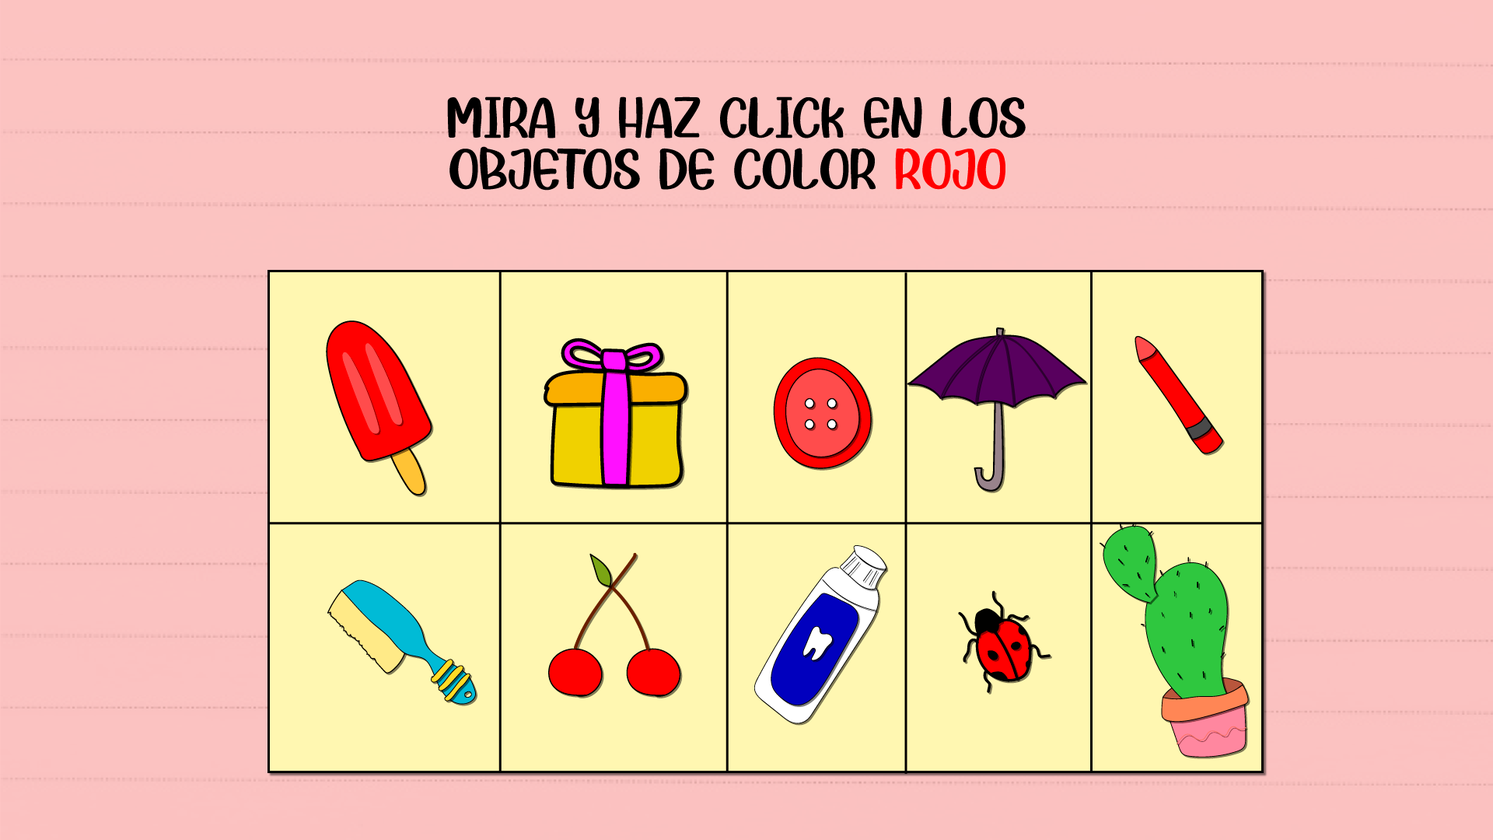
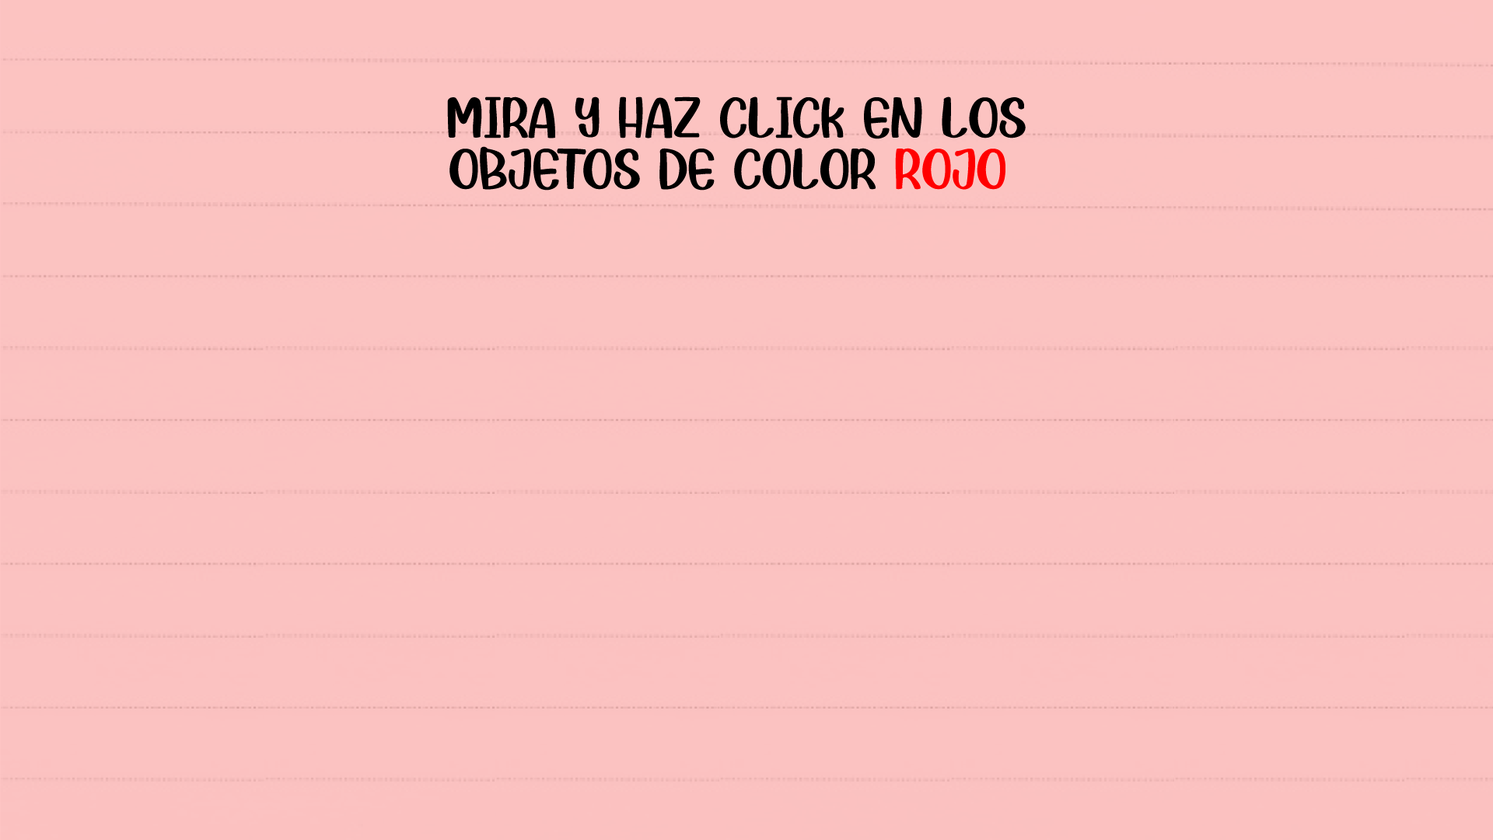
Added statatic

diff --git a/src/secciones/01-colores/Pag5.js b/src/secciones/01-colores/Pag5.js
@@ -3,67 +3,77 @@ import { BienHecho } from '../../components/BienHecho';
 
 export const Pag5 = ({height}) => {
 
-    const [isSelected, setIsSelected] = useState([false, false, false, false, false, false])
+    const [completed, setCompleted] = useState(false)
 
-    const [good, setGood] = useState('');
-
-    const handleSelect = (i) => {
-      setIsSelected((prevState) => prevState.map((item,index) => {
-          if (index === i) {
-              return true
-          }
-          return item
-      }))
-    };
-
+    const [selected, setSelected] = useState([
+        { clicked: false, value: 0 },
+        { clicked: false, value: 0 },
+        { clicked: false, value: 0 },
+        { clicked: false, value: 0 },
+        { clicked: false, value: 0 },
+        { clicked: false, value: 0 },
+        { clicked: false, value: 0 }
+      ]);
+    
+      const handleClick = (index) => {
+        setSelected((prevState) =>
+          prevState.map((sel, ind) => {
+            if (ind === index && !sel.clicked ) {
+              return {
+                clicked: true,
+                value: prevState.filter((itm) => itm.clicked).length + 1
+              };
+            }
+            return sel;
+          })
+        );
+      };
+    
     useEffect(() => {
-        if (isSelected.every(elem => elem )){
-            setGood("Bien Hecho")
-            setIsSelected([false, false, false, false, false, false, false])
+        if (selected.every(elem => elem.clicked )){
+            setCompleted(true)
         }
-    }, [isSelected])
+    }, [selected])
 
 
 
     return (
         <div className="container">
-            { good !== "" ? ( <BienHecho onClick={()=>setGood("")}/> ) :
-                <div className="row align-items-center" style={{height: height }} >
+            { completed ? ( <BienHecho setCompleted={setCompleted}/> ) :
+                <div className="row">
                     <img className="position-absolute p-0" src="static/Diapositivas PNG/5-a.png" alt="pag-5"/> 
-                    <div className="col-6">
-                    </div>
-                    <div className="col-6" style={{zIndex:2}} >
-                            <div className=" bg-amarillo overflow-hidden m-1 p-3 p-xl-5" style={{ borderRadius:"40%", }}>
-                                <img className={`${isSelected[0] ? "selected" : "img-hover"}`} alt="img-1" onClick={()=>{handleSelect(0)}} style={{height:"3vw"}} src="static/Elementosporseparado/2Coloresprimarios/Rojo/Corazon-rojo.png" />
-                                <img className="img-hover" alt="img-1" style={{height:"3vw"}} src="static/Elementosporseparado/2Coloresprimarios/Rojo/Corazon-azul.png" />
-                                <img className={`${isSelected[1] ? "selected" : "img-hover"}`} alt="img-1" onClick={()=>{handleSelect(1)}} style={{height:"3vw"}} src="static/Elementosporseparado/2Coloresprimarios/Rojo/Corazon-rojo.png" />
-                                <img className="img-hover" alt="img-1" style={{height:"3vw"}} src="static/Elementosporseparado/2Coloresprimarios/Rojo/Corazon-naranja.png" />
-                                <img className={`${isSelected[2] ? "selected" : "img-hover"}`} alt="img-1" onClick={()=>{handleSelect(2)}} style={{height:"3vw"}} src="static/Elementosporseparado/2Coloresprimarios/Rojo/Corazon-rojo.png" />
-                                <img className="img-hover" alt="img-1" style={{height:"3vw"}} src="static/Elementosporseparado/2Coloresprimarios/Rojo/Corazon-verde.png" />
-                                <img className="img-hover" alt="img-1" style={{height:"3vw"}} src="static/Elementosporseparado/2Coloresprimarios/Rojo/Corazon-verde-agua.png" />
-                                <img className="img-hover" alt="img-1" style={{height:"3vw"}} src="static/Elementosporseparado/2Coloresprimarios/Rojo/Corazon-amarillo.png" />
-                                <img className="img-hover" alt="img-1" style={{height:"3vw"}} src="static/Elementosporseparado/2Coloresprimarios/Rojo/Corazon-azul.png" />
-                                <img className="img-hover" alt="img-1" style={{height:"3vw"}} src="static/Elementosporseparado/2Coloresprimarios/Rojo/Corazon-celeste.png" />
-                                <img className="img-hover" alt="img-1" style={{height:"3vw"}} src="static/Elementosporseparado/2Coloresprimarios/Rojo/Corazon-naranja.png" />
-                                <img className="img-hover" alt="img-1" style={{height:"3vw"}} src="static/Elementosporseparado/2Coloresprimarios/Rojo/Corazon-verde.png" />
-                                <img className={`${isSelected[3] ? "selected" : "img-hover"}`} alt="img-1" onClick={()=>{handleSelect(3)}} style={{height:"3vw"}} src="static/Elementosporseparado/2Coloresprimarios/Rojo/Corazon-rojo.png" />
-                                <img className="img-hover" alt="img-1" style={{height:"3vw"}} src="static/Elementosporseparado/2Coloresprimarios/Rojo/Corazon-verde-agua.png" />
-                                <img className="img-hover" alt="img-1" style={{height:"3vw"}} src="static/Elementosporseparado/2Coloresprimarios/Rojo/Corazon-amarillo.png" />
-                                <img className="img-hover" alt="img-1" style={{height:"3vw"}} src="static/Elementosporseparado/2Coloresprimarios/Rojo/Corazon-azul.png" />
-                                <img className="img-hover" alt="img-1" style={{height:"3vw"}} src="static/Elementosporseparado/2Coloresprimarios/Rojo/Corazon-celeste.png" />
-                                <img className="img-hover" alt="img-1" style={{height:"3vw"}} src="static/Elementosporseparado/2Coloresprimarios/Rojo/Corazon-naranja.png" />
-                                <img className={`${isSelected[4] ? "selected" : "img-hover"}`} alt="img-1" onClick={()=>{handleSelect(4)}} style={{height:"3vw"}} src="static/Elementosporseparado/2Coloresprimarios/Rojo/Corazon-rojo.png" />
-                                <img className="img-hover" alt="img-1" style={{height:"3vw"}} src="static/Elementosporseparado/2Coloresprimarios/Rojo/Corazon-verde.png" />
-                                <img className={`${isSelected[5] ? "selected" : "img-hover"}`} alt="img-1" onClick={()=>{handleSelect(5)}} style={{height:"3vw"}} src="static/Elementosporseparado/2Coloresprimarios/Rojo/Corazon-rojo.png" />
-                                <img className="img-hover" alt="img-1" style={{height:"3vw"}} src="static/Elementosporseparado/2Coloresprimarios/Rojo/Corazon-amarillo.png" />
-                                <img className="img-hover" alt="img-1" style={{height:"3vw"}} src="static/Elementosporseparado/2Coloresprimarios/Rojo/Corazon-azul.png" />
-                                <img className={`${isSelected[6] ? "selected" : "img-hover"}`} alt="img-1" onClick={()=>{handleSelect(5)}} style={{height:"3vw"}} src="static/Elementosporseparado/2Coloresprimarios/Rojo/Corazon-rojo.png" />
-                                <img className="img-hover" alt="img-1" style={{height:"3vw"}} src="static/Elementosporseparado/2Coloresprimarios/Rojo/Corazon-amarillo.png" />
-                                <img className="img-hover" alt="img-1" style={{height:"3vw"}} src="static/Elementosporseparado/2Coloresprimarios/Rojo/Corazon-azul.png" />
-                            </div>
+                    <div className="bg-amarillo overflow-hidden m-3 m-sm-5 p-3 p-xl-5 position-absolute bottom-0 end-0" style={{ borderRadius:"45%", width:"50%", zIndex:2}}>
+                        
+                        <img className={"img-hover"} alt="img-1" onClick={()=>{handleClick(0)}} style={{height:"3vw"}} src={`static/Elementosporseparado/2Coloresprimarios/${selected[0].clicked ? selected[0].value : "/Rojo/Corazon-rojo" }.png`} />
+                         
+                        <img className="img-hover" alt="img-1" style={{height:"3vw"}} src="static/Elementosporseparado/2Coloresprimarios/Rojo/Corazon-azul.png" />
+                        <img className={"img-hover"} alt="img-1" onClick={()=>{handleClick(1)}} style={{height:"3vw"}} src={`static/Elementosporseparado/2Coloresprimarios/${selected[1].clicked ? selected[1].value : "/Rojo/Corazon-rojo" }.png`} />
+                        <img className="img-hover" alt="img-1" style={{height:"3vw"}} src="static/Elementosporseparado/2Coloresprimarios/Rojo/Corazon-naranja.png" />
+                        <img className={"img-hover"} alt="img-1" onClick={()=>{handleClick(2)}} style={{height:"3vw"}} src={`static/Elementosporseparado/2Coloresprimarios/${selected[2].clicked ? selected[2].value : "/Rojo/Corazon-rojo" }.png`} />
+                        <img className="img-hover" alt="img-1" style={{height:"3vw"}} src="static/Elementosporseparado/2Coloresprimarios/Rojo/Corazon-verde.png" />
+                        <img className="img-hover" alt="img-1" style={{height:"3vw"}} src="static/Elementosporseparado/2Coloresprimarios/Rojo/Corazon-verde-agua.png" />
+                        <img className="img-hover" alt="img-1" style={{height:"3vw"}} src="static/Elementosporseparado/2Coloresprimarios/Rojo/Corazon-amarillo.png" />
+                        <img className="img-hover" alt="img-1" style={{height:"3vw"}} src="static/Elementosporseparado/2Coloresprimarios/Rojo/Corazon-azul.png" />
+                        <img className="img-hover" alt="img-1" style={{height:"3vw"}} src="static/Elementosporseparado/2Coloresprimarios/Rojo/Corazon-celeste.png" />
+                        <img className="img-hover" alt="img-1" style={{height:"3vw"}} src="static/Elementosporseparado/2Coloresprimarios/Rojo/Corazon-naranja.png" />
+                        <img className="img-hover" alt="img-1" style={{height:"3vw"}} src="static/Elementosporseparado/2Coloresprimarios/Rojo/Corazon-verde.png" />
+                        <img className={"img-hover"} alt="img-1" onClick={()=>{handleClick(3)}} style={{height:"3vw"}} src={`static/Elementosporseparado/2Coloresprimarios/${selected[3].clicked ? selected[3].value : "/Rojo/Corazon-rojo" }.png`} />
+                        <img className="img-hover" alt="img-1" style={{height:"3vw"}} src="static/Elementosporseparado/2Coloresprimarios/Rojo/Corazon-verde-agua.png" />
+                        <img className="img-hover" alt="img-1" style={{height:"3vw"}} src="static/Elementosporseparado/2Coloresprimarios/Rojo/Corazon-amarillo.png" />
+                        <img className="img-hover" alt="img-1" style={{height:"3vw"}} src="static/Elementosporseparado/2Coloresprimarios/Rojo/Corazon-azul.png" />
+                        <img className="img-hover" alt="img-1" style={{height:"3vw"}} src="static/Elementosporseparado/2Coloresprimarios/Rojo/Corazon-celeste.png" />
+                        <img className="img-hover" alt="img-1" style={{height:"3vw"}} src="static/Elementosporseparado/2Coloresprimarios/Rojo/Corazon-naranja.png" />
+                        <img className={"img-hover"} alt="img-1" onClick={()=>{handleClick(4)}} style={{height:"3vw"}} src={`static/Elementosporseparado/2Coloresprimarios/${selected[4].clicked ? selected[4].value : "/Rojo/Corazon-rojo" }.png`} />
+                        <img className="img-hover" alt="img-1" style={{height:"3vw"}} src="static/Elementosporseparado/2Coloresprimarios/Rojo/Corazon-verde.png" />
+                        <img className={"img-hover"} alt="img-1" onClick={()=>{handleClick(5)}} style={{height:"3vw"}} src={`static/Elementosporseparado/2Coloresprimarios/${selected[5].clicked ? selected[5].value : "/Rojo/Corazon-rojo" }.png`} />
+                        <img className="img-hover" alt="img-1" style={{height:"3vw"}} src="static/Elementosporseparado/2Coloresprimarios/Rojo/Corazon-amarillo.png" />
+                        <img className="img-hover" alt="img-1" style={{height:"3vw"}} src="static/Elementosporseparado/2Coloresprimarios/Rojo/Corazon-azul.png" />
+                        <img className={"img-hover"} alt="img-1" onClick={()=>{handleClick(6)}} style={{height:"3vw"}} src={`static/Elementosporseparado/2Coloresprimarios/${selected[6].clicked ? selected[6].value : "/Rojo/Corazon-rojo" }.png`} />
+                        <img className="img-hover" alt="img-1" style={{height:"3vw"}} src="static/Elementosporseparado/2Coloresprimarios/Rojo/Corazon-amarillo.png" />
+                        <img className="img-hover" alt="img-1" style={{height:"3vw"}} src="static/Elementosporseparado/2Coloresprimarios/Rojo/Corazon-azul.png" />
                     </div>
                 </div>
-            }
+}
         </div>
         
     )

diff --git a/src/secciones/00-home/Libro.js b/src/secciones/00-home/Libro.js
@@ -1,7 +1,7 @@
 import React, {useRef} from 'react';
 import HTMLFlipBook from 'react-pageflip';
 import useWindowDimensions, {responsiveWidth, responsiveHeight} from '../../hooks/useWindowDimensions';
-import { Pag3 } from '../01-colores/Pag3';
+import { Pag4 } from '../01-colores/Pag4';
 import { Pag5 } from '../01-colores/Pag5';
 
 
@@ -17,16 +17,74 @@ export const Libro = () => {
             <div>
                 <button className="carousel-control-prev d-none d-sm-block d-lg-none" type="button" onClick={() => book.current.pageFlip().flipPrev()}><span className="carousel-control-prev-icon" aria-hidden="true"></span></button>
                 <HTMLFlipBook width={responsiveWidth(width)} height={responsiveHeight(width)}  useMouseEvents={false} ref={book}  autoSize={false} className="libro">
+                    
                     <div className="demoPage"><video  src="static/Diapositivas PNG/0 - Portada.mp4" width={responsiveWidth(width)} height={responsiveHeight(width)} loop={true} autoPlay={true} /></div>
                     <img className="demoPage" src="static/Diapositivas PNG/1.png" alt="page-1"/>
                     <img className="demoPage" src="static/Diapositivas PNG/2.png" alt="page-2"/>
                     <img className="demoPage" src="static/Diapositivas PNG/3.png" alt="page-3"/>
-                    <div className="demoPage  bg-rosa "><Pag3 /></div>
+                    <div className="demoPage"><Pag4 /></div>
                     <div className="demoPage"><Pag5 height={responsiveHeight(width)}/></div>
 
-                    <div className="demoPage  bg-blanco">fin</div>
-                    <div className="demoPage  bg-violeta">Page 3</div>
-                    <div className="demoPage bg-amarillo">Page 4</div>
+                    <img className="demoPage" src="static/Diapositivas PNG/6.png" alt="page-3"/>
+                    <img className="demoPage" src="static/Diapositivas PNG/9.png" alt="page-3"/>
+                    <div className="demoPage"><video  src="static/Diapositivas PNG/13 ANIMADA.mp4" width={responsiveWidth(width)} height={responsiveHeight(width)} loop={true} autoPlay={true} /></div>
+                    <img className="demoPage" src="static/Diapositivas PNG/14.png" alt="page-3"/>
+                    <img className="demoPage" src="static/Diapositivas PNG/20.png" alt="page-3"/>
+                    <img className="demoPage" src="static/Diapositivas PNG/21.png" alt="page-3"/>
+                    <img className="demoPage" src="static/Diapositivas PNG/24.png" alt="page-3"/>
+                    <img className="demoPage" src="static/Diapositivas PNG/26.png" alt="page-3"/>
+                    <img className="demoPage" src="static/Diapositivas PNG/32.png" alt="page-3"/>
+                    <img className="demoPage" src="static/Diapositivas PNG/33.png" alt="page-3"/>
+                    <img className="demoPage" src="static/Diapositivas PNG/36.png" alt="page-3"/>
+                    <img className="demoPage" src="static/Diapositivas PNG/38.png" alt="page-3"/>
+                    <img className="demoPage" src="static/Diapositivas PNG/43.png" alt="page-3"/>
+                    <img className="demoPage" src="static/Diapositivas PNG/48.png" alt="page-3"/>
+                    <img className="demoPage" src="static/Diapositivas PNG/53.png" alt="page-3"/>
+                    <img className="demoPage" src="static/Diapositivas PNG/58.png" alt="page-3"/>
+                    <div className="demoPage"><video  src="static/Diapositivas PNG/63 ANIMADA.mp4" width={responsiveWidth(width)} height={responsiveHeight(width)} loop={true} autoPlay={true} /></div>
+                    <img className="demoPage" src="static/Diapositivas PNG/69.png" alt="page-3"/>
+                    <img className="demoPage" src="static/Diapositivas PNG/70.png" alt="page-3"/>
+                    <img className="demoPage" src="static/Diapositivas PNG/73.png" alt="page-3"/>
+                    <img className="demoPage" src="static/Diapositivas PNG/76.png" alt="page-3"/>
+                    <img className="demoPage" src="static/Diapositivas PNG/79.png" alt="page-3"/>
+                    <img className="demoPage" src="static/Diapositivas PNG/82.png" alt="page-3"/>
+                    <img className="demoPage" src="static/Diapositivas PNG/84.png" alt="page-3"/>
+                    <img className="demoPage" src="static/Diapositivas PNG/85.png" alt="page-3"/>
+                    <img className="demoPage" src="static/Diapositivas PNG/86.png" alt="page-3"/>
+                    <img className="demoPage" src="static/Diapositivas PNG/87.png" alt="page-3"/>
+                    <img className="demoPage" src="static/Diapositivas PNG/88.png" alt="page-3"/>
+                    <img className="demoPage" src="static/Diapositivas PNG/89.png" alt="page-3"/>
+                    <div className="demoPage"><video  src="static/Diapositivas PNG/93 CUERPO HUMANO ANIMADA.mp4" width={responsiveWidth(width)} height={responsiveHeight(width)} loop={true} autoPlay={true} /></div>
+                    <img className="demoPage" src="static/Diapositivas PNG/104.png" alt="page-3"/>
+                    <img className="demoPage" src="static/Diapositivas PNG/105.png" alt="page-3"/>
+                    <img className="demoPage" src="static/Diapositivas PNG/106.png" alt="page-3"/>
+                    <img className="demoPage" src="static/Diapositivas PNG/108.png" alt="page-3"/>
+                    <img className="demoPage" src="static/Diapositivas PNG/113.png" alt="page-3"/>
+                    <img className="demoPage" src="static/Diapositivas PNG/120.png" alt="page-3"/>
+                    <img className="demoPage" src="static/Diapositivas PNG/127.png" alt="page-3"/>
+                    <img className="demoPage" src="static/Diapositivas PNG/134.png" alt="page-3"/>
+                    <div className="demoPage"><video  src="static/Diapositivas PNG/141 ANIMADA.mp4" width={responsiveWidth(width)} height={responsiveHeight(width)} loop={true} autoPlay={true} /></div>
+                    <img className="demoPage" src="static/Diapositivas PNG/144.png" alt="page-3"/>
+                    <img className="demoPage" src="static/Diapositivas PNG/150.png" alt="page-3"/>
+                    <img className="demoPage" src="static/Diapositivas PNG/154.png" alt="page-3"/>
+                    <img className="demoPage" src="static/Diapositivas PNG/155.png" alt="page-3"/>
+                    <img className="demoPage" src="static/Diapositivas PNG/156.png" alt="page-3"/>
+                    <img className="demoPage" src="static/Diapositivas PNG/157.png" alt="page-3"/>
+                    <img className="demoPage" src="static/Diapositivas PNG/158.png" alt="page-3"/>
+                    <div className="demoPage"><video  src="static/Diapositivas PNG/163 JUEGOS DE ATENCION ANIMADA.mp4" width={responsiveWidth(width)} height={responsiveHeight(width)} loop={true} autoPlay={true} /></div>
+                    <img className="demoPage" src="static/Diapositivas PNG/163.png" alt="page-3"/>
+                    <img className="demoPage" src="static/Diapositivas PNG/164.png" alt="page-3"/>
+                    <img className="demoPage" src="static/Diapositivas PNG/165.png" alt="page-3"/>
+                    <img className="demoPage" src="static/Diapositivas PNG/166.png" alt="page-3"/>
+                    <img className="demoPage" src="static/Diapositivas PNG/167.png" alt="page-3"/>
+                    <img className="demoPage" src="static/Diapositivas PNG/168.png" alt="page-3"/>
+                    <img className="demoPage" src="static/Diapositivas PNG/169.png" alt="page-3"/>
+
+
+
+
+
+
 
                 </HTMLFlipBook>
                 <button className="carousel-control-next d-none d-sm-block d-lg-none" type="button" onClick={() => book.current.pageFlip().flipNext()}><span className="carousel-control-next-icon" aria-hidden="true"></span></button>

diff --git a/src/secciones/01-colores/Pag4.js b/src/secciones/01-colores/Pag4.js
@@ -1,0 +1,78 @@
+import React, { useEffect, useState } from 'react'
+import { BienHecho } from '../../components/BienHecho';
+
+export const Pag4 = () => {
+
+    const [isSelected, setIsSelected] = useState([false, false, false, false, false])
+
+    const [completed, setCompleted] = useState(false);
+
+    const handleSelect = (i) => {
+      setIsSelected((prevState) => prevState.map((item,index) => {
+          if (index === i) {
+              return true
+          }
+          return item
+      }))
+    };
+
+    useEffect(() => {
+        if (isSelected.every(elem => elem )){
+            setCompleted(true)
+        }
+    }, [isSelected])
+
+    return (
+        <div className="container text-center">
+            { completed ? ( <BienHecho setCompleted={setCompleted}/> ) :
+            
+            <>
+                <div className="row">
+                    <img className="position-absolute p-0" src="static/Diapositivas PNG/4.png" alt="pag-4" />
+                    <div className="position-absolute top-50 start-50 translate-middle" style={{zIndex:2}}>
+                        <div className="row mt-3" >
+                            <div className="col-1"></div>
+                            <div  onClick={()=>{handleSelect(0)}} className={`col-2 border border-2 p-2 ${isSelected[0] ? "selected" : "border-dark"} bg-amarillo img-hover`} >
+                                <img style={{width: "4vw"}} src='static/Elementosporseparado/2Coloresprimarios/Rojo/Helado.png' alt="img" />
+                            </div>
+                            <div  className="col-2 border border-3 border-dark bg-amarillo p-2">
+                                <img style={{width: "4vw"}} src='/static/Elementosporseparado/2Coloresprimarios/Rojo/Regalo.png' alt="img" />
+
+                            </div>
+                            <div onClick={()=>{handleSelect(1)}} className={`col-2 border border-3 p-2 ${isSelected[1] ? "selected" : "border-dark"} bg-amarillo img-hover`}>
+                                <img style={{width: "4vw"}} src='/static/Elementosporseparado/2Coloresprimarios/Rojo/Botón.png' alt="img" />
+                            </div>
+                            <div className="col-2 border border-3 border-dark bg-amarillo p-2">
+                                <img style={{width: "4vw"}} src='/static/Elementosporseparado/2Coloresprimarios/Rojo/Paraguas.png' alt="img" />
+                            </div>
+                            <div onClick={()=>{handleSelect(2)}} className={`col-2 border border-3 p-2 ${isSelected[2] ? "selected" : "border-dark"} bg-amarillo img-hover`}>
+                                <img style={{width: "4vw"}} src='/static/Elementosporseparado/2Coloresprimarios/Rojo/Crayón.png' alt="img" />
+                            </div>
+                        </div>
+                        <div className="row">
+                            <div className="col-1"></div>
+                            <div className="col-2 border border-3 border-dark bg-amarillo p-2">
+                                <img style={{width: "4vw"}} src='/static/Elementosporseparado/2Coloresprimarios/Rojo/Peine.png' alt="img" />
+                            </div>
+                            <div onClick={()=>{handleSelect(3)}} className={`col-2 border border-3 p-2 ${isSelected[3] ? "selected" : "border-dark"} bg-amarillo img-hover`}>
+                                <img style={{width: "4vw"}} src='/static/Elementosporseparado/2Coloresprimarios/Rojo/Cereza.png' alt="img" />
+
+                            </div>
+                            <div className="col-2 border border-3 border-dark bg-amarillo p-2">
+                                <img style={{width: "4vw"}} src='/static/Elementosporseparado/2Coloresprimarios/Rojo/Pasta-dental.png' alt="img"/>
+
+                            </div>
+                            <div onClick={()=>{handleSelect(4)}} className={`col-2 border border-3 p-2 ${isSelected[4] ? "selected" : "border-dark"} bg-amarillo img-hover`}>
+                                <img style={{width: "4vw"}} src='/static/Elementosporseparado/2Coloresprimarios/Rojo/Vaquita-de-san-antonio.png' alt="img"/>
+                            </div>
+                            <div className="col-2 border border-3 border-dark bg-amarillo p-2">
+                                <img style={{width: "4vw"}} src='/static/Elementosporseparado/2Coloresprimarios/Rojo/Cactus.png' alt="img"/>
+                            </div>
+                        </div>
+                    </div>
+                </div>
+            </>
+            }
+        </div>
+    )
+}

diff --git a/src/components/BienHecho.js b/src/components/BienHecho.js
@@ -1,10 +1,10 @@
 import React from 'react'
 import useWindowDimensions, {responsiveWidth, responsiveHeight} from '../hooks/useWindowDimensions';
 
-export const BienHecho = () => {
+export const BienHecho = ({setCompleted}) => {
     const { width} = useWindowDimensions();
     return (
-        <div>
+        <div className="img-hover" onClick={() => setCompleted(false)}>
             <video className="animate__animated animate__bounceIn" src="static\Diapositivas animadas y GIFs\¡Muy bien!.mp4" width={responsiveWidth(width)} height={responsiveHeight(width)} loop={true} autoPlay={true} />
             {console.log(responsiveHeight, responsiveHeight)}
         </div>

diff --git a/src/hooks/useWindowDimensions.js b/src/hooks/useWindowDimensions.js
@@ -29,7 +29,7 @@ export const responsiveWidth = (width) => {
   } else if (width <= 992) {
       return 480
   } else if (width <= 1600) {
-      return 850  
+      return 960 
   } else {
       return 1200
   }
@@ -40,7 +40,7 @@ export const responsiveHeight = (width) => {
   } else if (width <= 992) {
       return 270
   } else if (width <= 1600) {
-      return 475
+      return 540
   } else {
       return 675
   }
